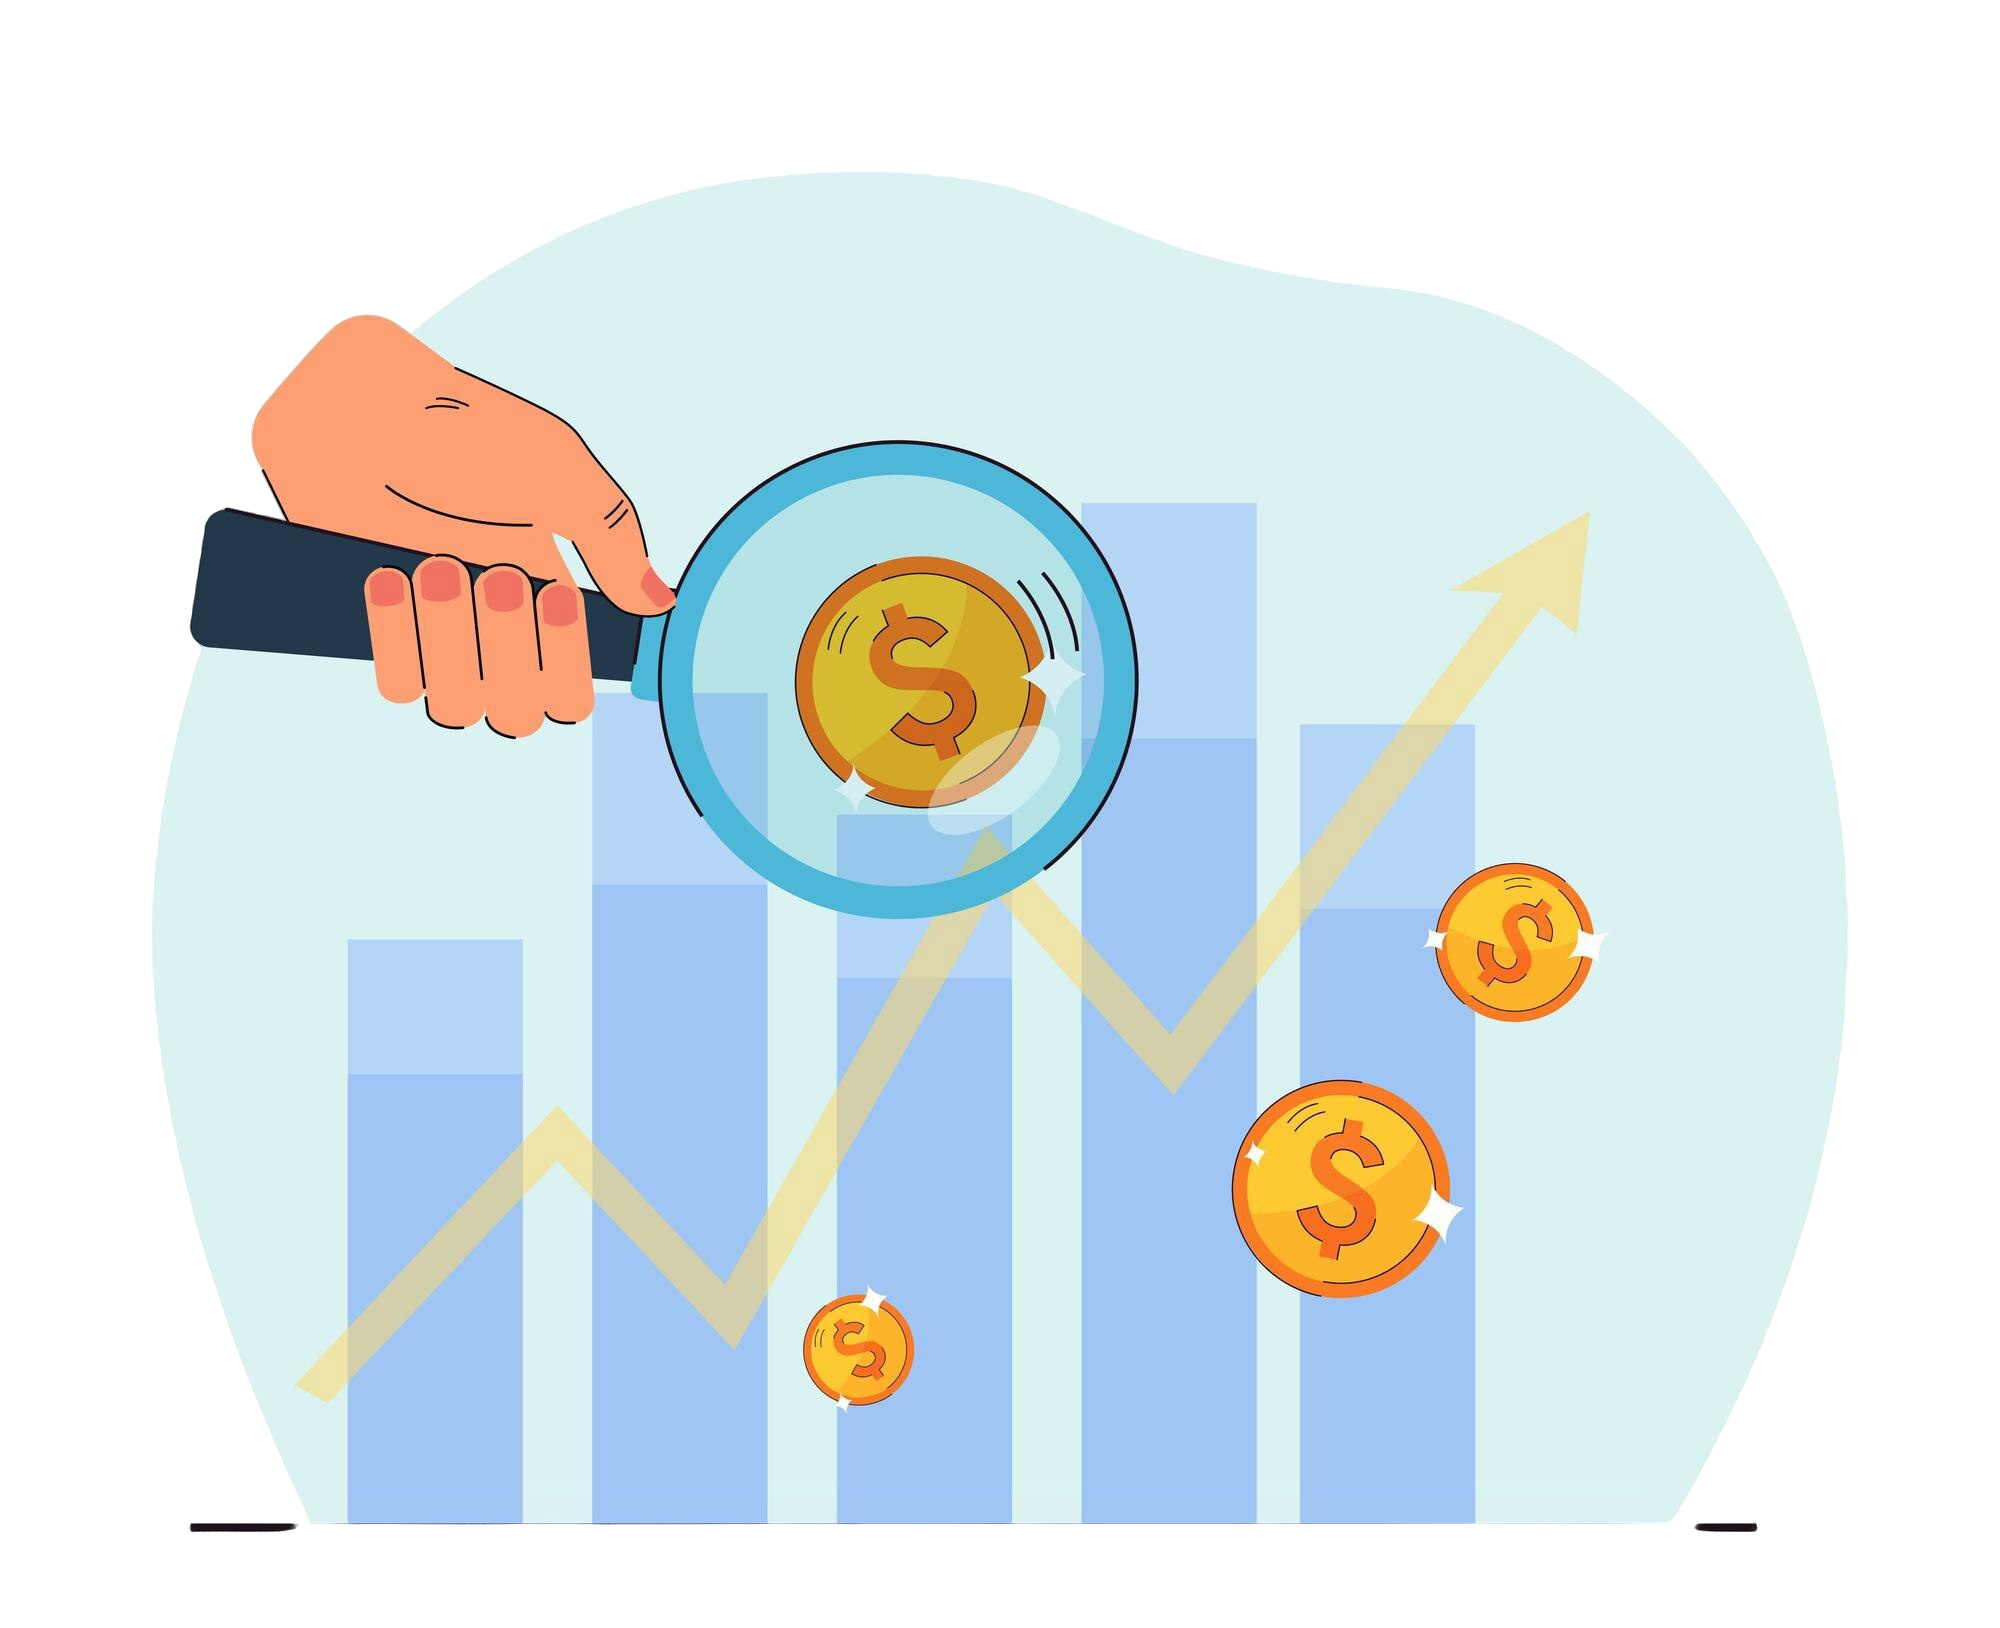
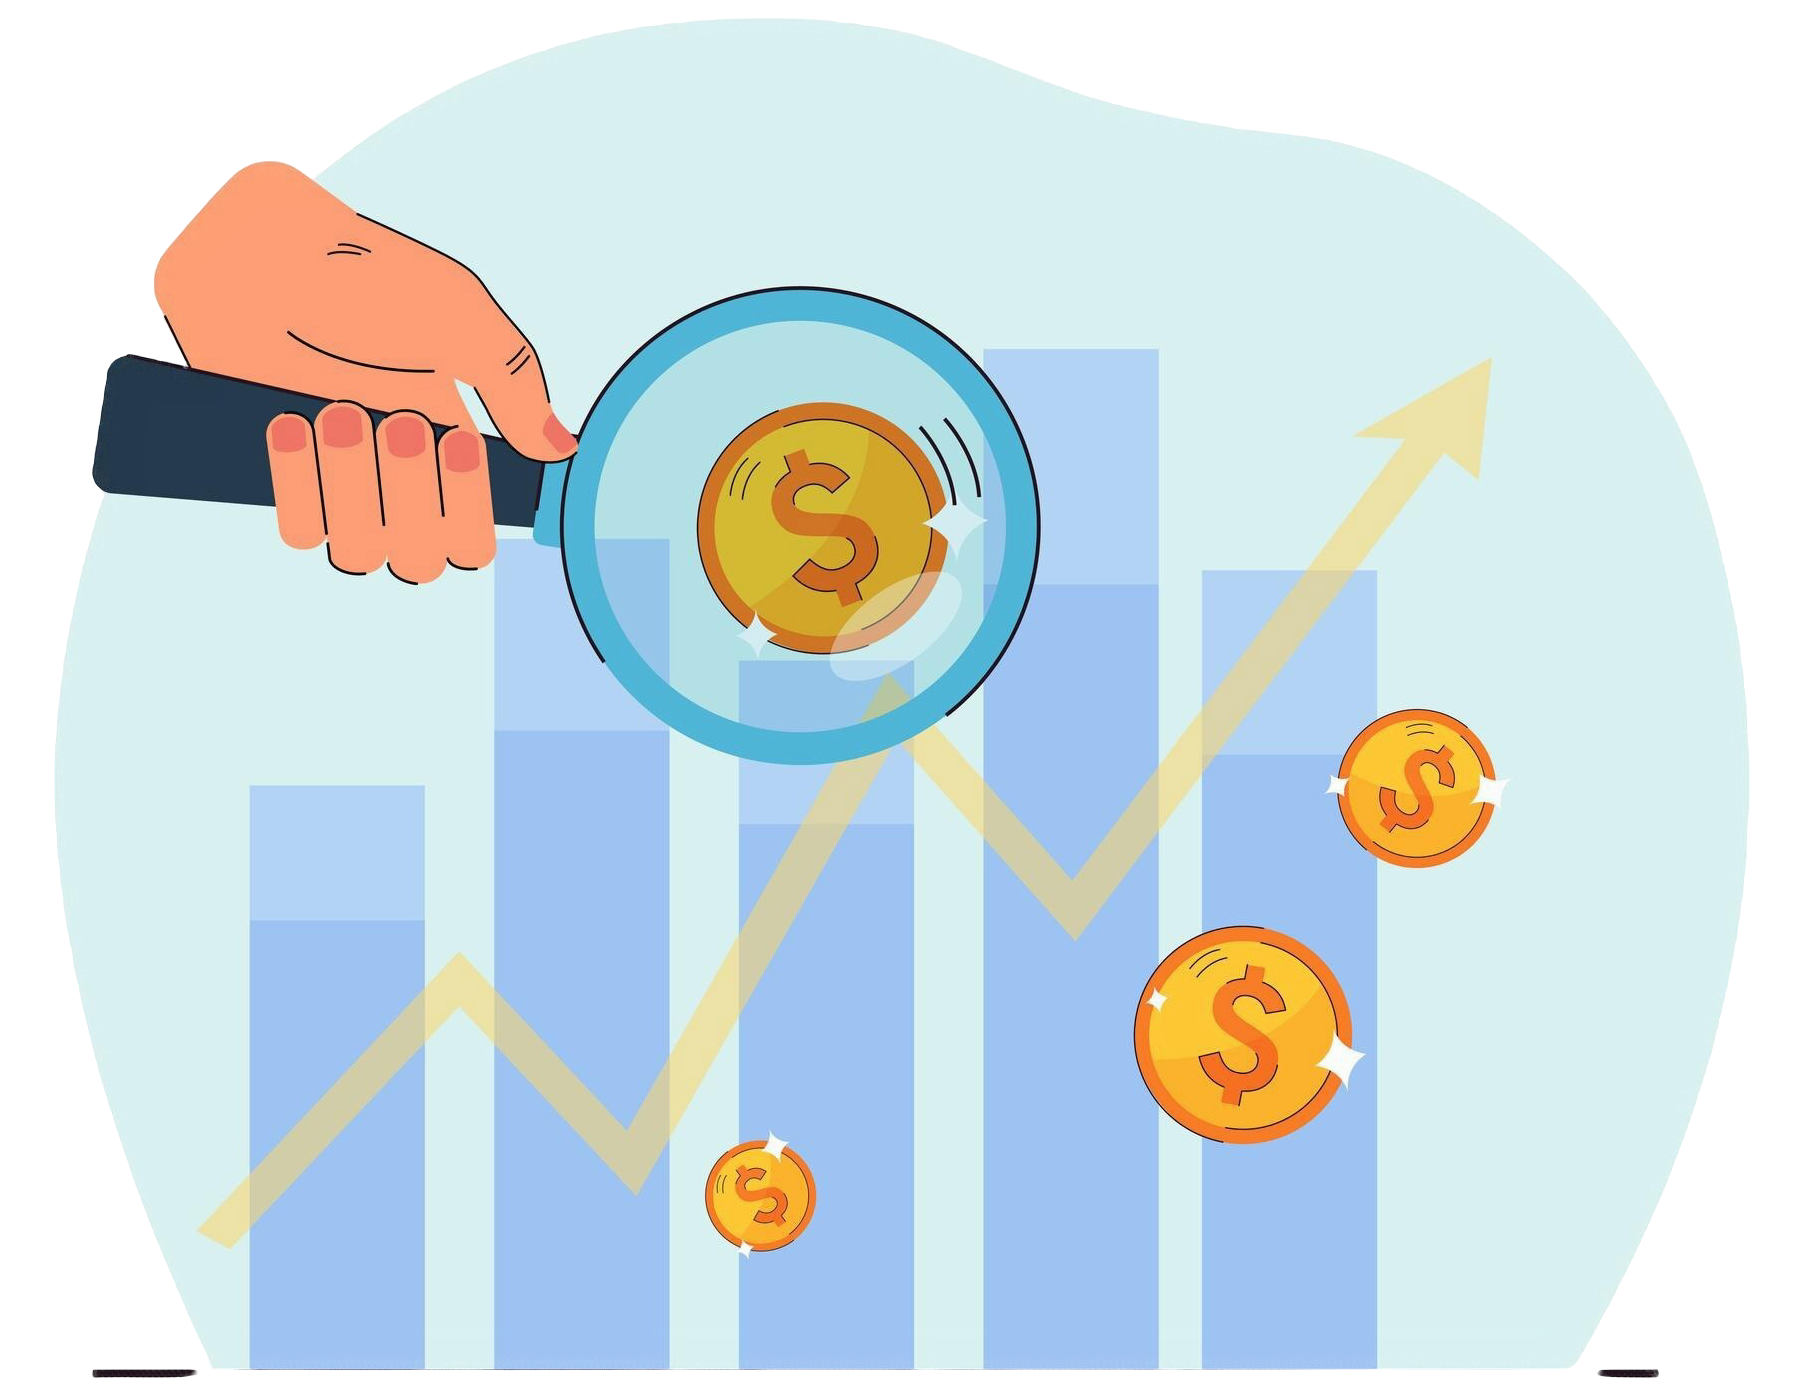
final

diff --git a/index.html b/index.html
@@ -510,7 +510,7 @@
                         <div class="col-lg-4 wow slideInUp" data-wow-delay="0.3s">
                             <div class="blog-item bg-light rounded overflow-hidden">
                                 <div class="blog-img position-relative overflow-hidden">
-                                    <img class="img-fluid my-5 mb-5" src="img/bag1.png" alt="">
+                                    <img class="img-fluid my-4" src="img/bag1.png" alt="">
                                     <a class="position-absolute top-0 start-0 bg-primary text-white rounded-end mt-5 py-2 px-4"
                                         href="">Bagian 1</a>
                                 </div>
@@ -525,7 +525,7 @@
                         <div class="col-lg-4 wow slideInUp" data-wow-delay="0.3s">
                             <div class="blog-item bg-light rounded overflow-hidden">
                                 <div class="blog-img position-relative overflow-hidden">
-                                    <img class="img-fluid my-4 mb-4" src="img/bag2.png" alt="">
+                                    <img class="img-fluid my-3" src="img/bag2.png" alt="">
                                     <a class="position-absolute top-0 start-0 bg-primary text-white rounded-end mt-5 py-2 px-4"
                                         href="">Bagian 2</a>
                                 </div>
@@ -541,7 +541,7 @@
                         <div class="col-lg-4 wow slideInUp" data-wow-delay="0.3s">
                             <div class="blog-item bg-light rounded overflow-hidden">
                                 <div class="blog-img position-relative overflow-hidden">
-                                    <img class="img-fluid" src="img/bag3.png" alt="">
+                                    <img class="img-fluid my-2" src="img/bag3.png" alt="">
                                     <a class="position-absolute top-0 start-0 bg-primary text-white rounded-end mt-5 py-2 px-4"
                                         href="">Bagian 3</a>
                                 </div>
